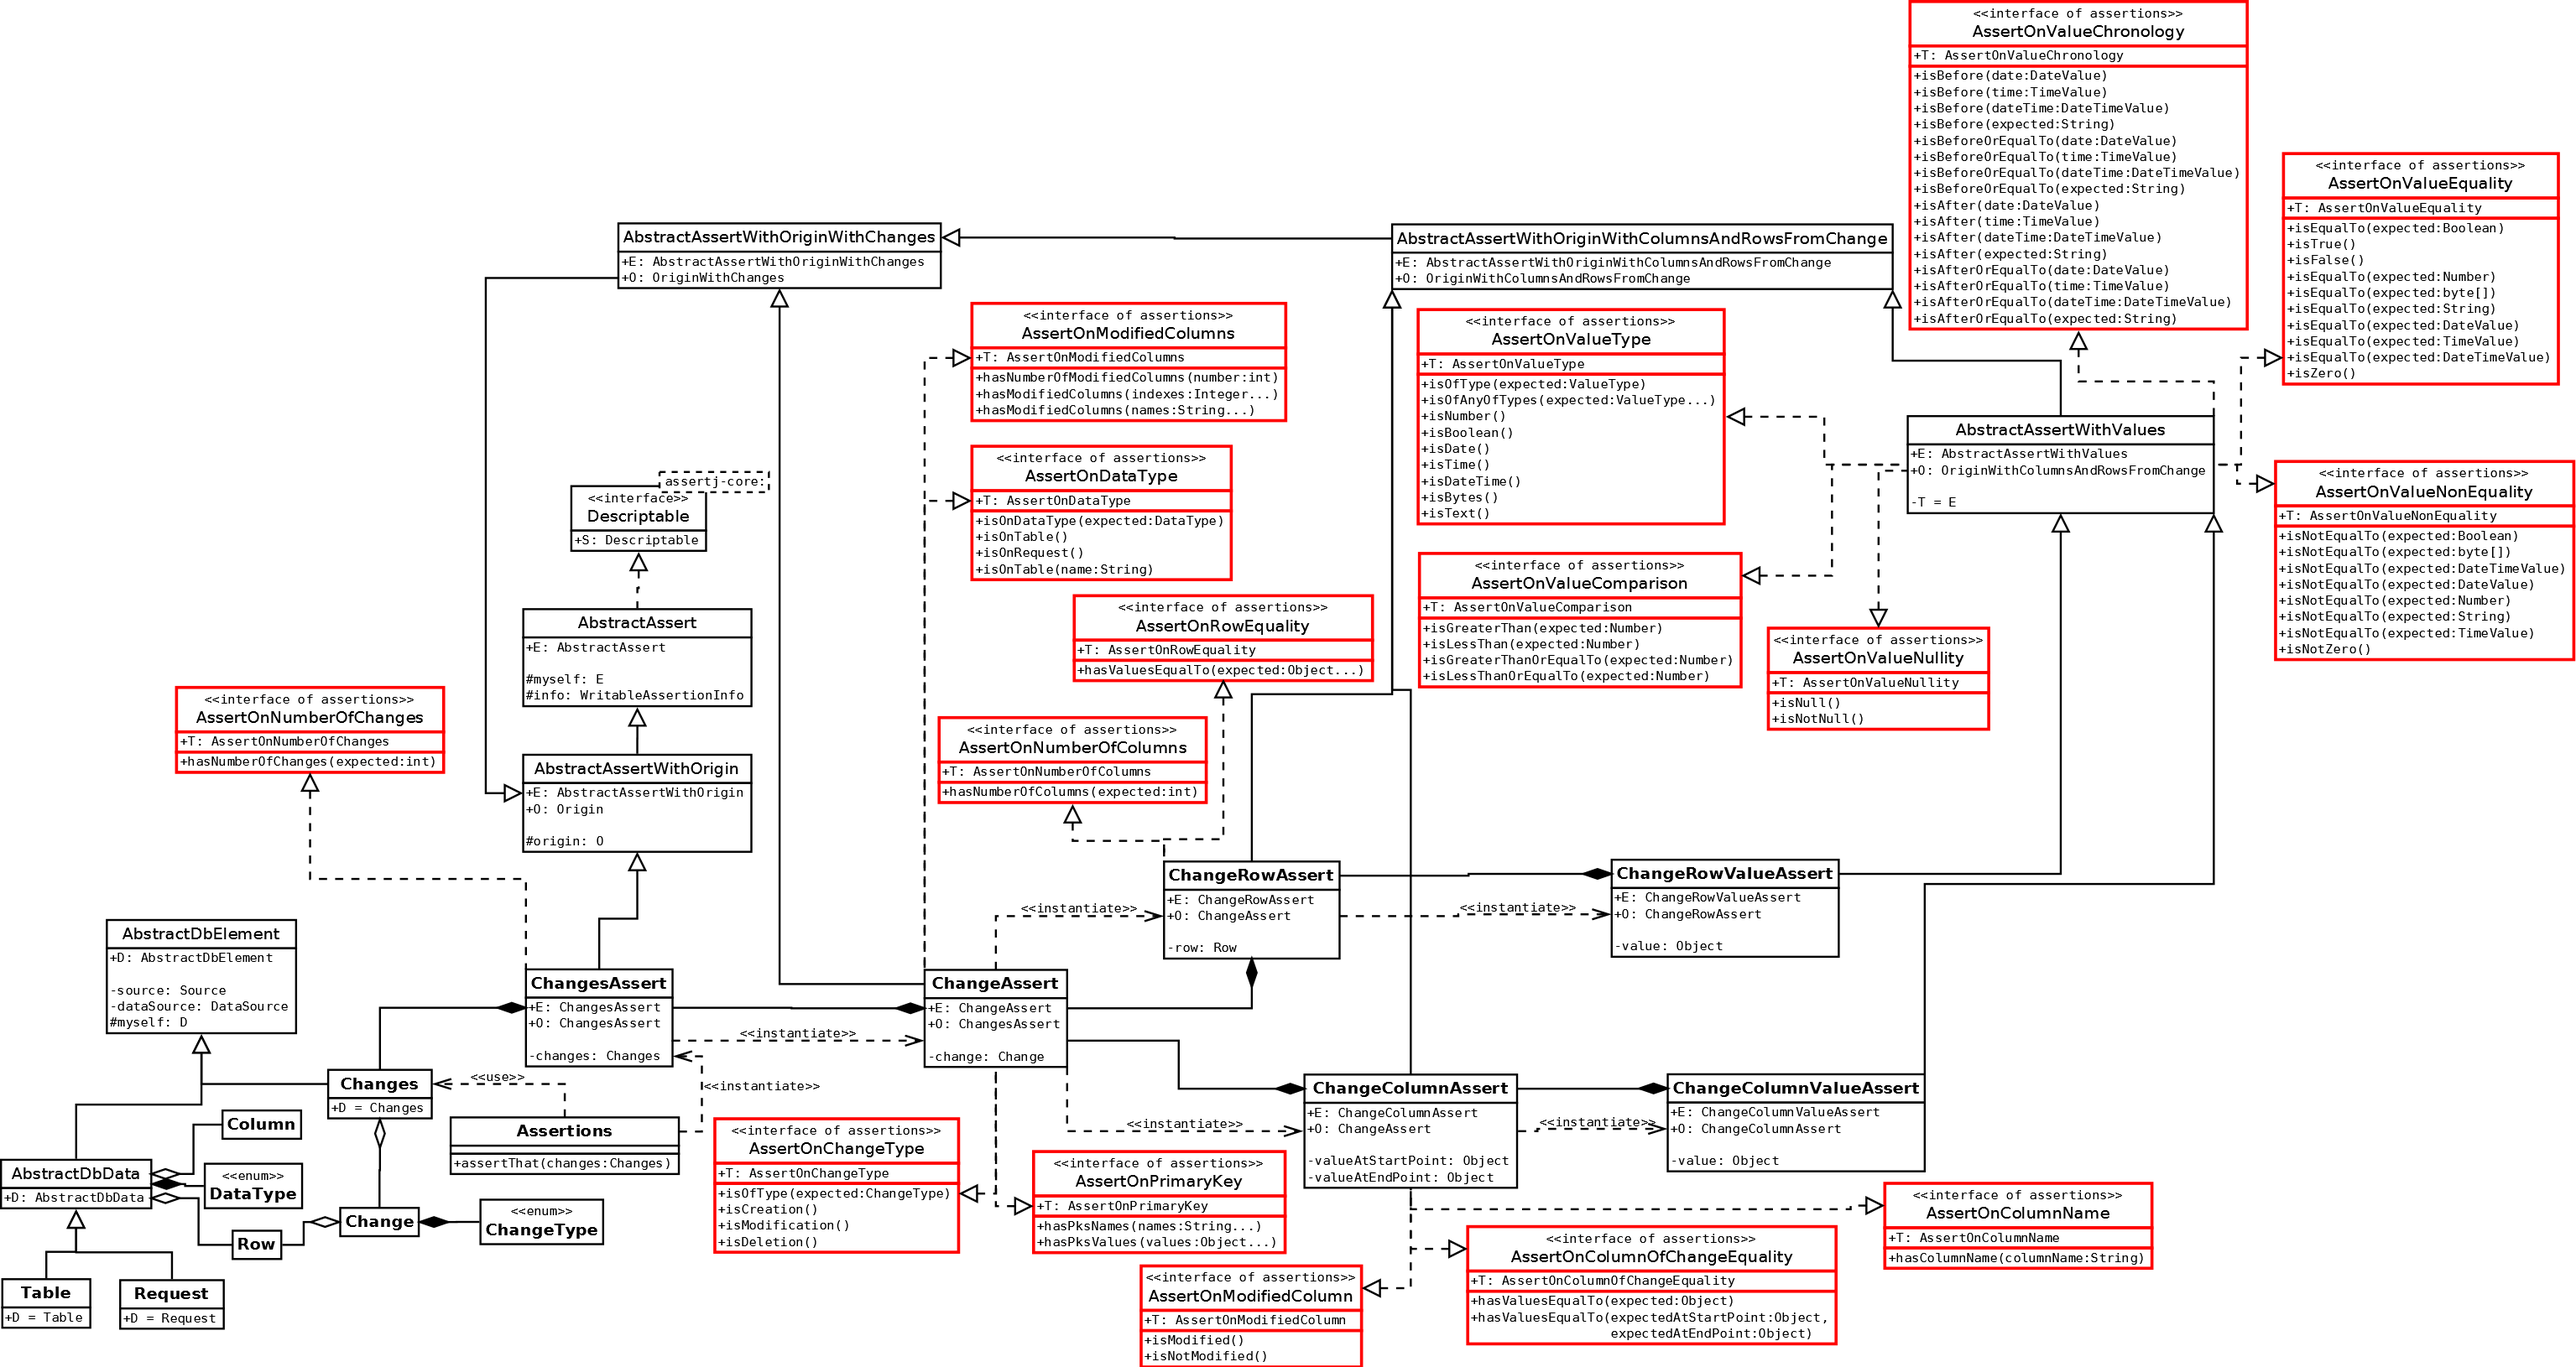
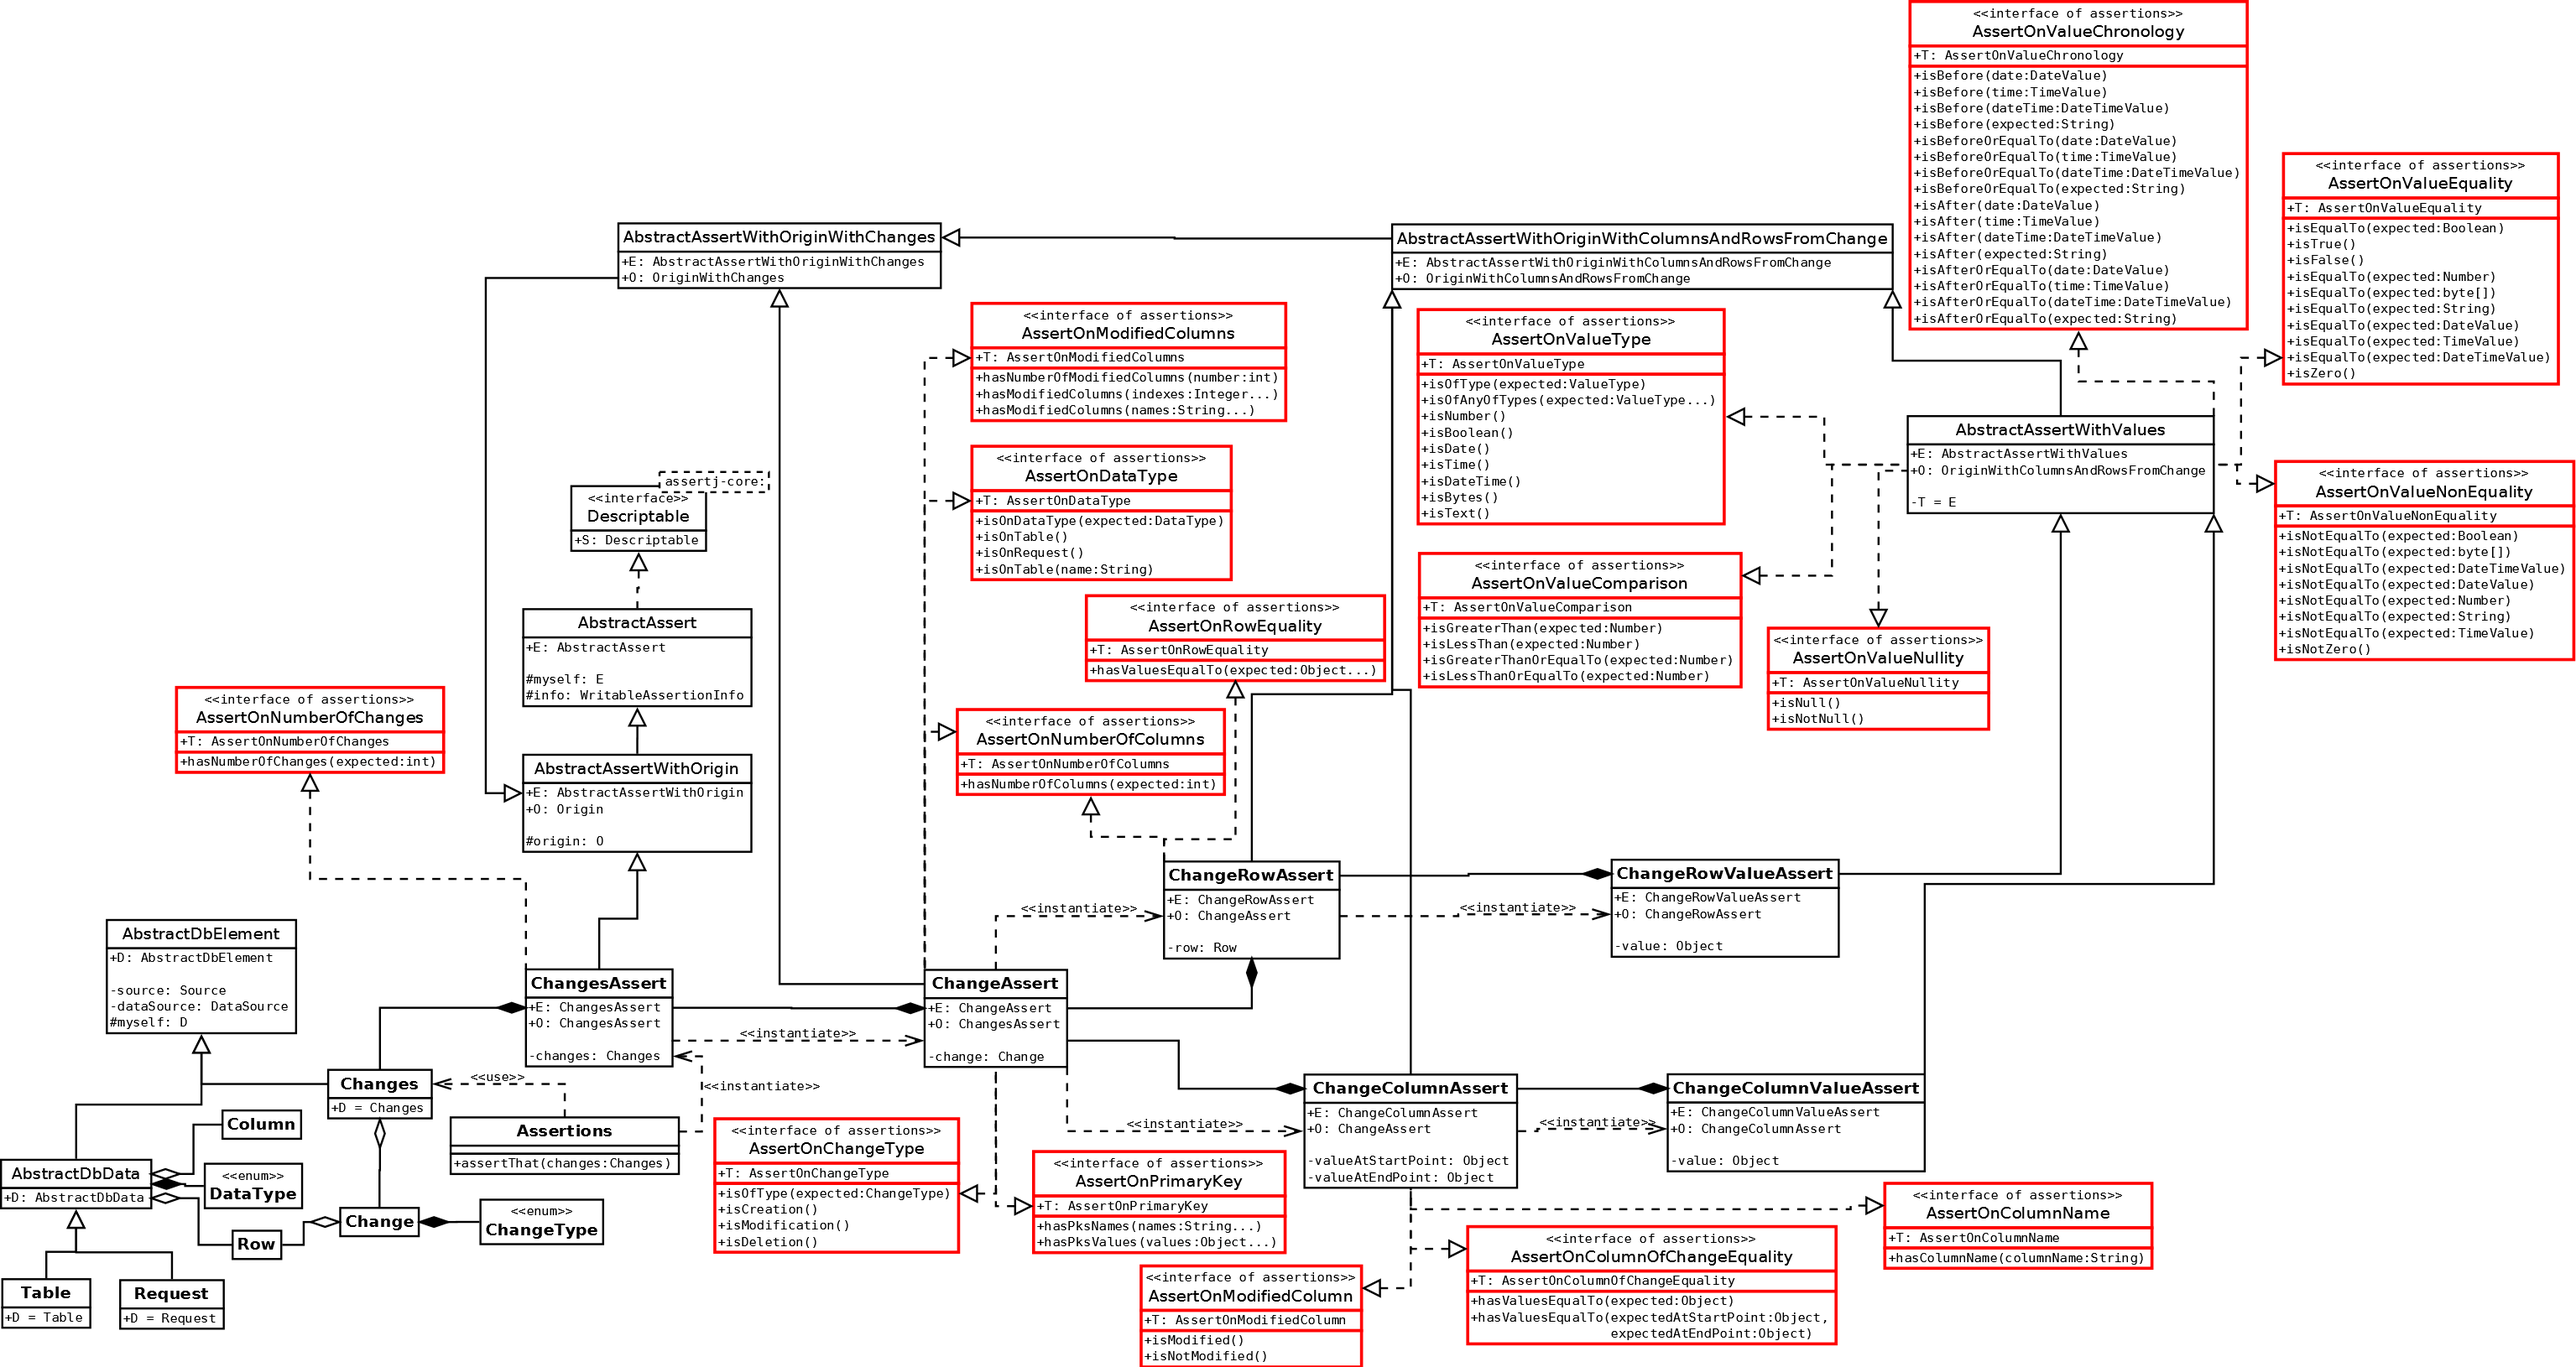
Add hasNumberOfColumns assertion method to ChangeAssert

Changed region(s): [[0.3404, 0.4294, 0.5261, 0.6135], [0.5261, 0.4601, 0.557, 0.4908]]

diff --git a/src/main/java/org/assertj/db/api/ChangeAssert.java b/src/main/java/org/assertj/db/api/ChangeAssert.java
@@ -12,10 +12,7 @@
  */
 package org.assertj.db.api;
 
-import org.assertj.db.api.assertions.AssertOnChangeType;
-import org.assertj.db.api.assertions.AssertOnDataType;
-import org.assertj.db.api.assertions.AssertOnModifiedColumns;
-import org.assertj.db.api.assertions.AssertOnPrimaryKey;
+import org.assertj.db.api.assertions.*;
 import org.assertj.db.api.origin.OriginWithColumnsAndRowsFromChange;
 import org.assertj.db.exception.AssertJDBException;
 import org.assertj.db.type.Change;
@@ -23,6 +20,7 @@ import org.assertj.db.type.ChangeType;
 import org.assertj.db.type.DataType;
 import org.assertj.db.type.Row;
 import org.assertj.db.util.AssertionsOnChange;
+import org.assertj.db.util.AssertionsOnRow;
 import org.assertj.db.util.Changes;
 
 import java.util.HashMap;
@@ -36,7 +34,7 @@ import java.util.Map;
  */
 public class ChangeAssert extends AbstractAssertWithOriginWithChanges<ChangeAssert, ChangesAssert>
         implements OriginWithColumnsAndRowsFromChange, AssertOnDataType<ChangeAssert>, AssertOnPrimaryKey<ChangeAssert>,
-        AssertOnChangeType<ChangeAssert>, AssertOnModifiedColumns<ChangeAssert> {
+        AssertOnChangeType<ChangeAssert>, AssertOnModifiedColumns<ChangeAssert>, AssertOnNumberOfColumns<ChangeAssert> {
 
   /**
    * The actual change on which the assertion is.
@@ -276,5 +274,11 @@ public class ChangeAssert extends AbstractAssertWithOriginWithChanges<ChangeAsse
   @Override
   public ChangeAssert hasModifiedColumns(String... names) {
     return AssertionsOnChange.hasModifiedColumns(myself, info, change, names);
+  }
+
+  /** {@inheritDoc} */
+  @Override
+  public ChangeAssert hasNumberOfColumns(int expected) {
+    return AssertionsOnRow.hasSize(myself, info, change.getColumnsNameList().size(), expected);
   }
 }
